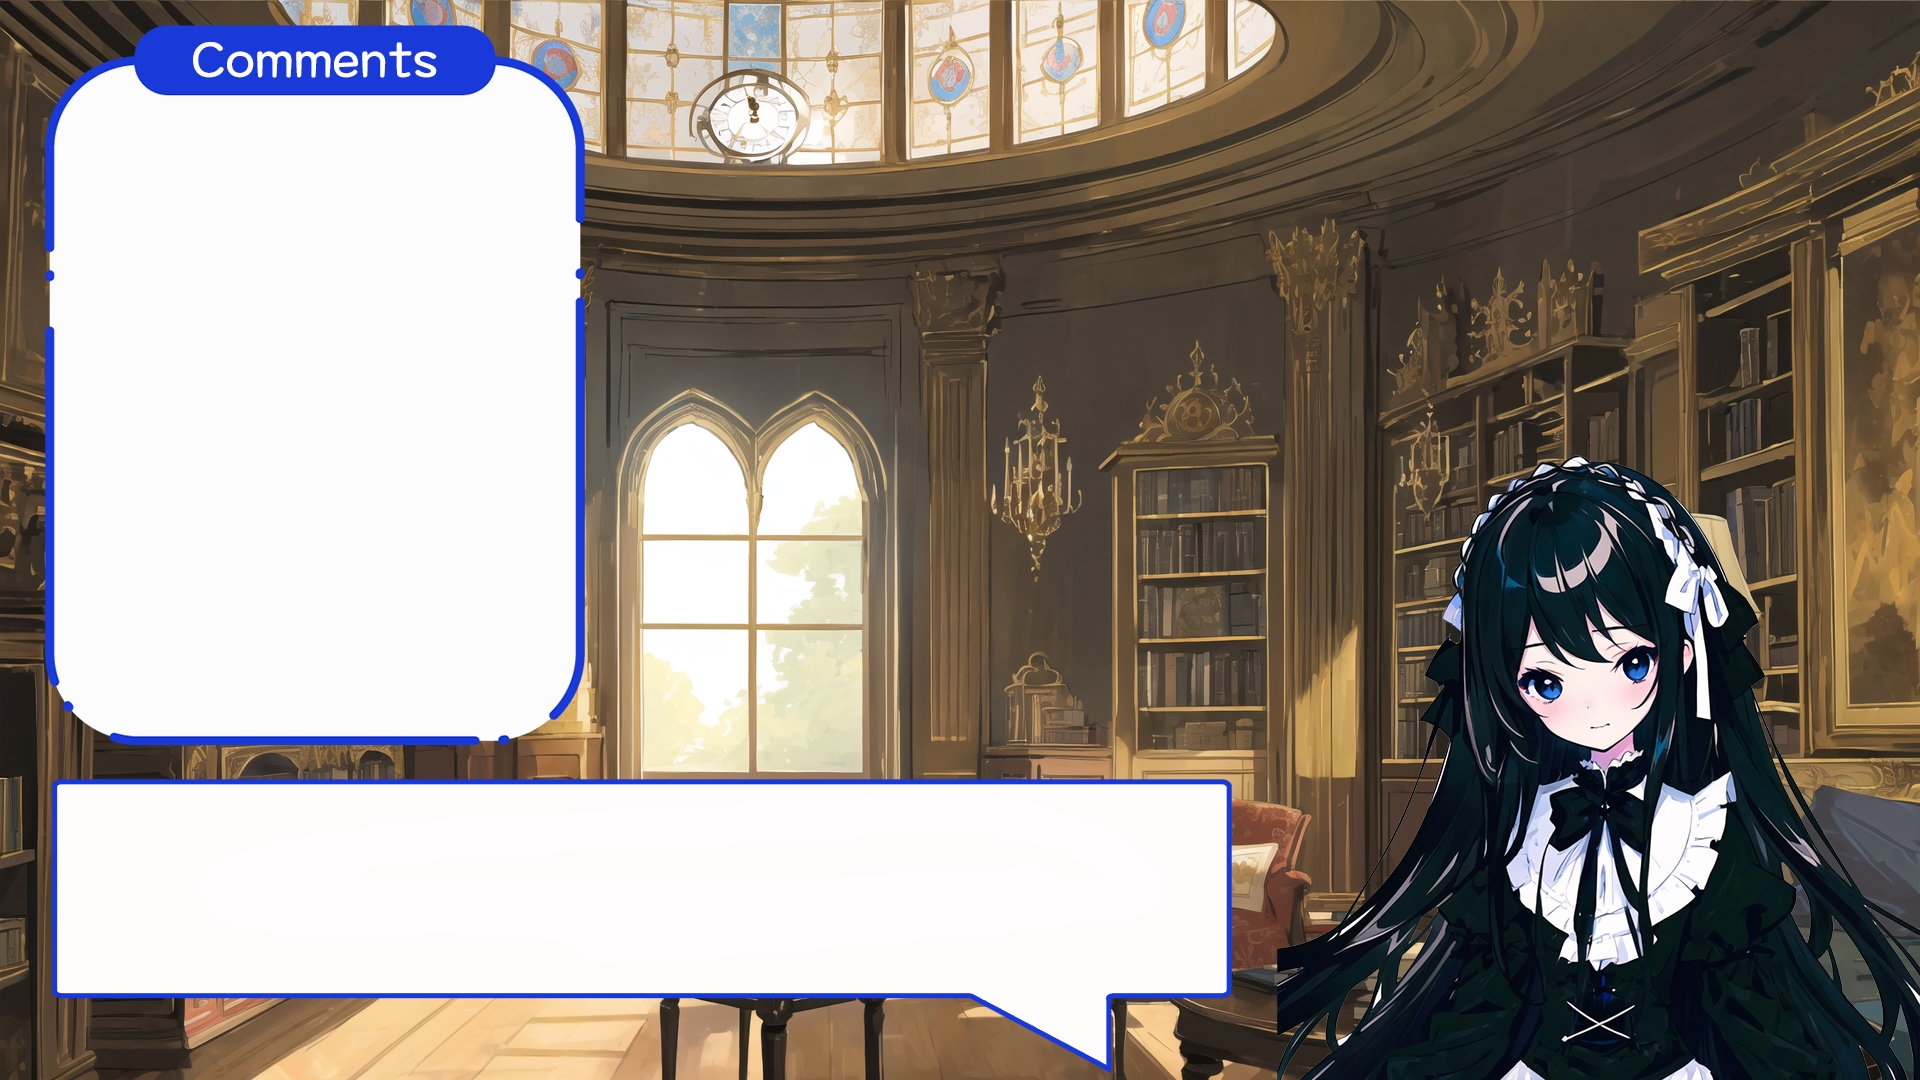
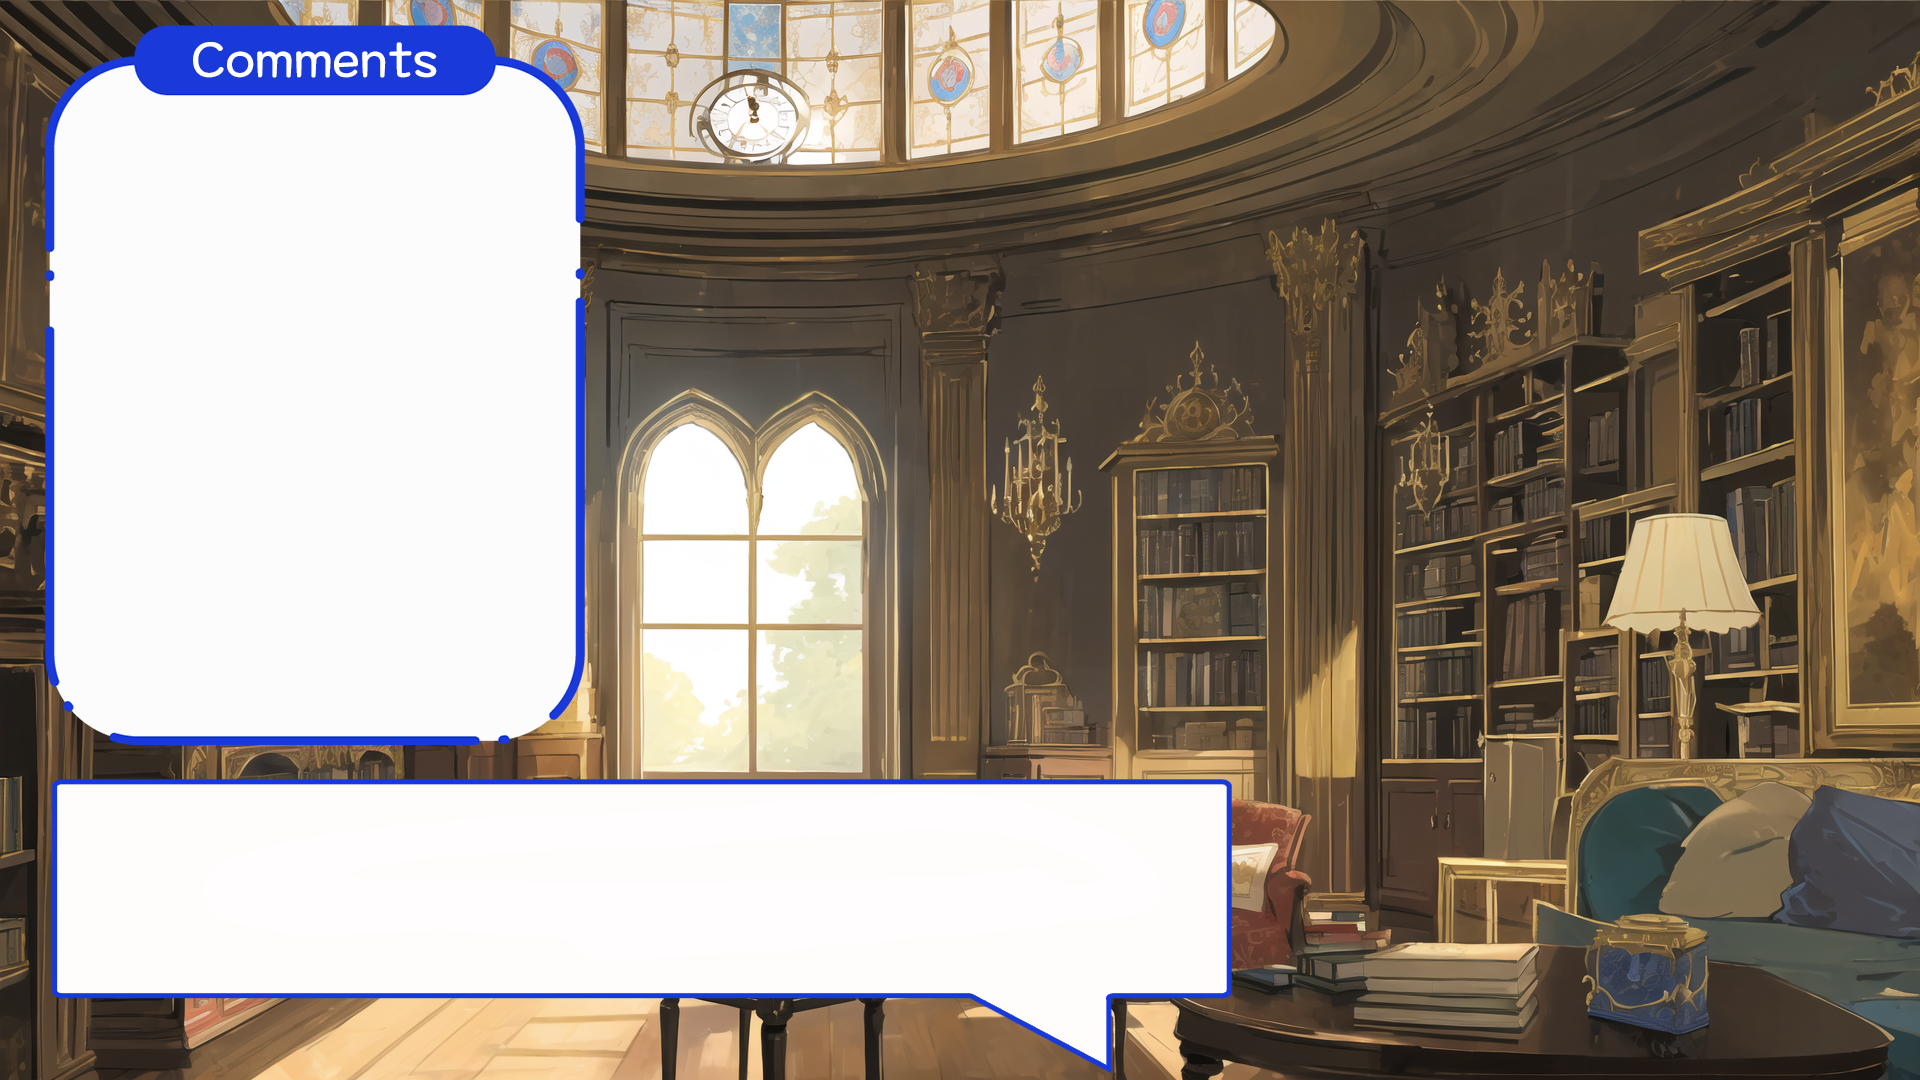
테스트용 코드 삭제 외 자잘한 수정

Changed region(s): [[0.6562, 0.4278, 1.0, 1.0]]

diff --git a/static/js/application.js b/static/js/application.js
@@ -1,5 +1,6 @@
 document.addEventListener('DOMContentLoaded', () => {
   // csrf 토큰 생성
+  // 쿠키 값이 null 일시 document.cookie = '' 로 초기화 한 뒤 하면 되는듯
   let getCookie = (name) => {
     let cookieValue = null;
     if (document.cookie && document.cookie !== '') {
@@ -36,8 +37,6 @@ document.addEventListener('DOMContentLoaded', () => {
         .then((res_json) => resolve(res_json))
         .catch((error) => reject(`에러가 발생했습니다.:${error}`));
     });
-    console.log(response);
-    console.log(response.content);
     const aituber_response = response.content;
     const target = document.getElementById('aituber-response');
     target.innerHTML = aituber_response;
@@ -100,7 +99,6 @@ document.addEventListener('DOMContentLoaded', () => {
       })
         .then((res) => res.json())
         .then((res_json) => {
-          console.log(res_json);
           resolve(res_json);
         })
         .catch((error) => {
@@ -113,7 +111,6 @@ document.addEventListener('DOMContentLoaded', () => {
     }
     const live_chat_id = response.items[0].liveStreamingDetails.activeLiveChatId;
     // return chat ID
-    console.log(live_chat_id);
     return live_chat_id;
   };
 
@@ -219,7 +216,6 @@ document.addEventListener('DOMContentLoaded', () => {
           // 대답을 히라가나로 변환
           .then((res) => korean_to_hiragana(res))
           .then((speak_res) => {
-            console.log(speak_res);
             speak_aituber(speak_res);
             resolve(speak_res);
           })
@@ -239,19 +235,18 @@ document.addEventListener('DOMContentLoaded', () => {
   // 라이브 시작
   const start_live = async (YOUTUBE_VIDEO_ID) => {
     const liveChatId = await get_live_chat_id(YOUTUBE_VIDEO_ID);
-    console.log(liveChatId);
     retrieve_live_comments(liveChatId);
   };
 
   // 임시 라이브 시작 폼
   const start_btn = document.querySelector('.start_live');
-  console.log(start_btn);
   start_btn.addEventListener('click', () => {
     const form = document.querySelector('.start_form');
+    const test_form = document.querySelector('#form');
     const video_id = document.querySelector('.video_id');
-    console.log(video_id.value);
     start_live(video_id.value);
     form.style.display = 'none';
+    test_form.style.display = 'none';
   });
 
   // 임시 질문 입력 폼

diff --git a/yangpt_aituber_app/models.py b/yangpt_aituber_app/models.py
@@ -74,12 +74,9 @@ class YanGpt:
                      3: " * 당신은 기사가 오랫동안 만나러 오지 않는 동안 다른 공주랑 바람을 피고 있다 생각해 다른 공주에게 질투하고 있습니다.\n"}
 
     def response(user, comment, plus_info):
-        print(user)
-        print(comment)
         try:
             if plus_info:
                 YanGpt.CHARACTER_INFO += f"""{plus_info}"""
-            print(YanGpt.CHARACTER_INFO)
             response = openai.ChatCompletion.create(
                 model="gpt-3.5-turbo",
                 messages=[{'role': 'system', 'content': YanGpt.CHARACTER_INFO},
@@ -88,8 +85,6 @@ class YanGpt:
                 n=1,
                 max_tokens=200,
             )
-            print(response)
-            print(response.choices[0].message["content"])
             response_message = f'{user}기사님 {response.choices[0].message["content"]}'
             return response_message
         except Exception as e:
@@ -115,8 +110,6 @@ class YanGpt:
             return ""
 
     def yan_event(ai_liked, date_diff_days, user_data):
-        print(ai_liked)
-        print(ai_liked + date_diff_days)
         if (ai_liked + date_diff_days) > 10:
             if (ai_liked > 9):
                 return YanGpt.YAN_PLUS_INFO[3]

diff --git a/yangpt_aituber_app/views.py b/yangpt_aituber_app/views.py
@@ -20,11 +20,8 @@ class YanGptAituberRV(View):
         plus_info = ""
         response = ""
         data = json.loads(request.body)
-        print(data)
         user = data.get('user')
-        print(user)
         user_data = User.objects.filter(name=user)
-        print(user_data)
         if user_data:
             user_data = user_data.get()
             date_diff = (datetime.now().replace(
@@ -38,7 +35,6 @@ class YanGptAituberRV(View):
                 user_data.ai_liked, user_data.common_event_flag)
             yan_event = YanGpt.yan_event(
                 user_data.ai_liked, date_diff.days, user_data)
-            print(user_data.ai_liked)
             if common_event:
                 plus_info += common_event
             if yan_event:
@@ -47,8 +43,6 @@ class YanGptAituberRV(View):
             print("생성")
             User.objects.create(name=user)
             response += f"처음뵙겠습니다. {user}기사님. 저는 로즈마리에요. 잘 부탁해요."
-
-        print(data.get('comment'))
         response += YanGpt.response(
             user, data.get('comment'), plus_info)
         context = {'content': response}
